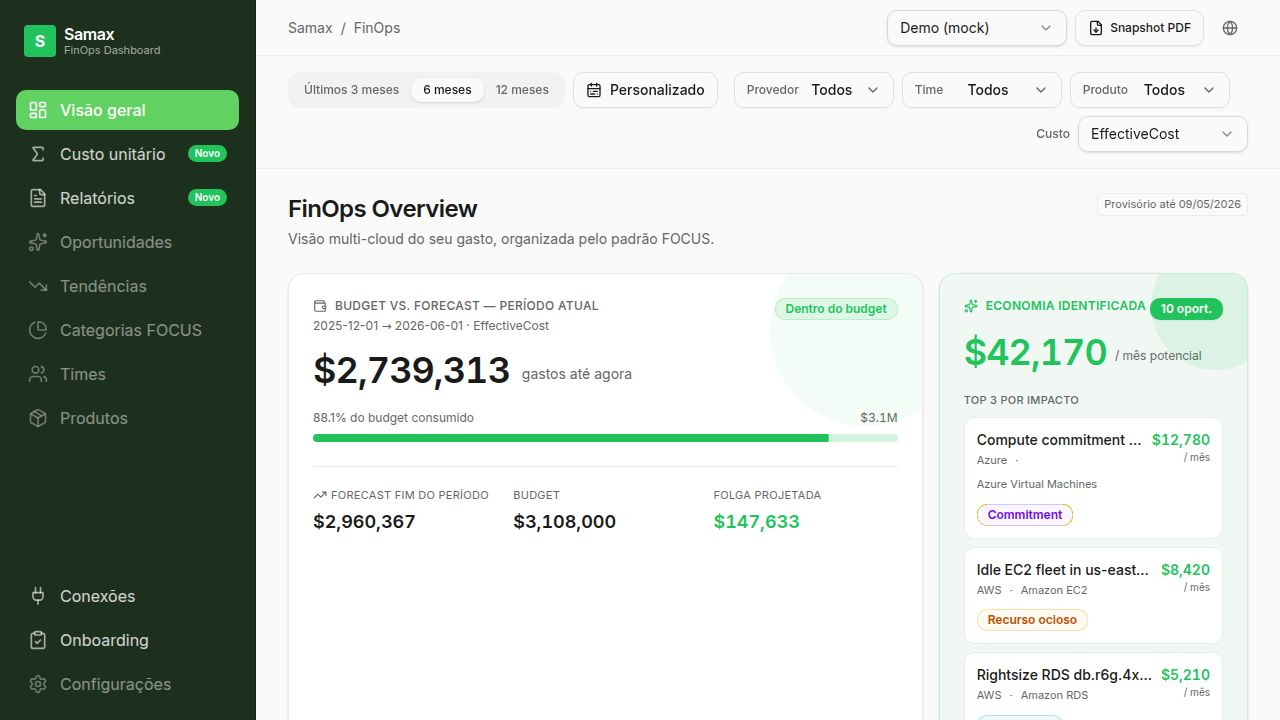
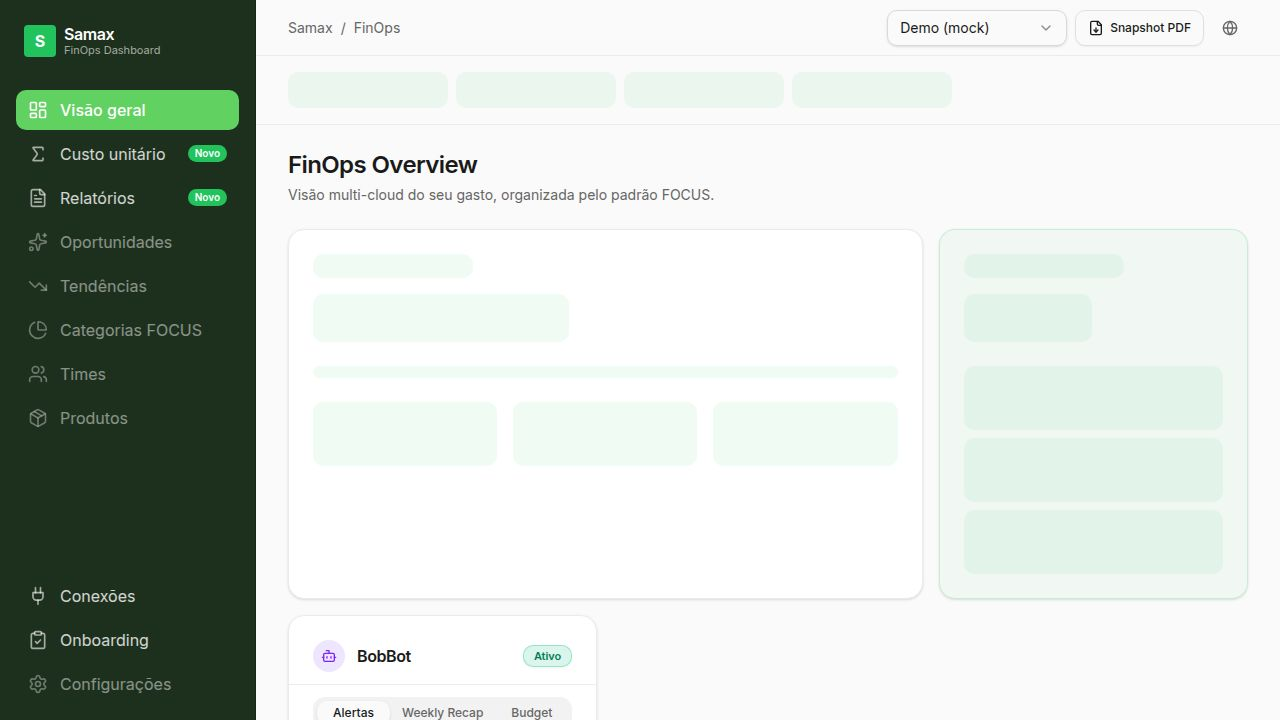
feat: show service/provider breakdown in baseline card details (task #26)
## What changed
- Added `BaselineBreakdownTable` helper component in `relatorios.tsx` that
  renders a sorted table of (name | total cost | % of total) rows from a
  Record<string, number> map (byService or byProvider).
- Converted `BaselineRow` from a static display card to a stateful component
  with an expand/collapse toggle ("Ver detalhes" / "Ocultar").
- Toggle only appears when the baseline has at least one byService or byProvider
  value > 0 (aligned with the table's own row filter to prevent empty panels).
- When expanded, a two-column grid shows "Por serviço" and "Por provedor"
  tables side by side (stacked on mobile), each sorted descending by cost.
- Rows with value ≤ 0 are filtered out; percentage column shows "—" if total
  is zero to avoid division errors.
- Added ChevronDown / ChevronUp icons from lucide-react for the toggle button.

## Code review fix
- `hasBreakdown` now uses `.some((v) => v > 0)` instead of key presence check,
  ensuring the toggle never appears for baselines with only zero-value entries.

## No API or schema changes
The Baseline type already exposes byService and byProvider from the existing
db schema — no backend changes were required.

## Typecheck
`pnpm --filter @user/samax-dashboard run typecheck` passes with zero errors.

## Deviations
None — implemented exactly as described in the task spec.

Replit-Task-Id: 3b98cbb3-e81f-4450-b642-353660befd0b

diff --git a/artifacts/samax-dashboard/src/pages/relatorios.tsx b/artifacts/samax-dashboard/src/pages/relatorios.tsx
@@ -78,6 +78,8 @@ import {
   TrendingDown,
   ClipboardList,
   Layers,
+  ChevronDown,
+  ChevronUp,
 } from "lucide-react";
 import { customFetchUrl } from "@/lib/report-pdf-url";
 import { useUnitEconomics } from "@/lib/unit-economics-store";
@@ -1100,45 +1102,133 @@ function EmptyBaselineBanner({ onCreateClick }: { onCreateClick: () => void }) {
   );
 }
 
+function BaselineBreakdownTable({
+  title,
+  data,
+  currency,
+  total,
+}: {
+  title: string;
+  data: Record<string, number>;
+  currency: string;
+  total: number;
+}) {
+  const rows = Object.entries(data)
+    .filter(([, v]) => v > 0)
+    .sort(([, a], [, b]) => b - a);
+
+  if (rows.length === 0) return null;
+
+  return (
+    <div>
+      <div className="text-xs font-semibold uppercase tracking-wide text-muted-foreground mb-1.5">{title}</div>
+      <Table>
+        <TableHeader>
+          <TableRow>
+            <TableHead className="text-xs">Nome</TableHead>
+            <TableHead className="text-xs text-right">Custo total</TableHead>
+            <TableHead className="text-xs text-right">% do total</TableHead>
+          </TableRow>
+        </TableHeader>
+        <TableBody>
+          {rows.map(([name, value]) => (
+            <TableRow key={name}>
+              <TableCell className="text-sm py-2">{name}</TableCell>
+              <TableCell className="text-sm py-2 text-right tabular-nums">
+                {formatCurrency(value, currency)}
+              </TableCell>
+              <TableCell className="text-sm py-2 text-right tabular-nums text-muted-foreground">
+                {total > 0 ? formatPercent(value / total) : "—"}
+              </TableCell>
+            </TableRow>
+          ))}
+        </TableBody>
+      </Table>
+    </div>
+  );
+}
+
 function BaselineRow({ baseline }: { baseline: Baseline }) {
+  const [expanded, setExpanded] = useState(false);
+
+  const hasBreakdown =
+    Object.values(baseline.byService ?? {}).some((v) => v > 0) ||
+    Object.values(baseline.byProvider ?? {}).some((v) => v > 0);
+
   return (
     <Card>
-      <CardContent className="p-5 flex flex-col md:flex-row gap-4 md:items-center justify-between">
-        <div>
-          <div className="flex items-center gap-2 flex-wrap">
-            <span className="font-medium">{baseline.label}</span>
-            {baseline.isActive && (
-              <Badge variant="outline" className="text-[11px] border-emerald-300 text-emerald-700">
-                Ativo
-              </Badge>
-            )}
-            {baseline.source === "manual-input" ? (
-              <Badge variant="outline" className="text-[11px] border-amber-300 text-amber-700 bg-amber-50">
-                Entrada manual
-              </Badge>
-            ) : (
-              <Badge variant="outline" className="text-[11px]">{baseline.source}</Badge>
-            )}
-          </div>
-          <div className="text-xs text-muted-foreground mt-1">
-            {fmtDate(baseline.periodStart)} → {fmtDate(baseline.periodEnd)} ·
-            {baseline.months} {baseline.months === 1 ? "mês" : "meses"} · criado em {new Date(baseline.createdAt).toLocaleDateString("pt-BR")}
-          </div>
-        </div>
-        <div className="flex items-center gap-6">
-          <div className="text-right">
-            <div className="text-[11px] uppercase tracking-wide text-muted-foreground">Total</div>
-            <div className="text-base font-semibold tabular-nums">
-              {formatCurrency(baseline.totalCost, baseline.currency)}
+      <CardContent className="p-5">
+        <div className="flex flex-col md:flex-row gap-4 md:items-center justify-between">
+          <div>
+            <div className="flex items-center gap-2 flex-wrap">
+              <span className="font-medium">{baseline.label}</span>
+              {baseline.isActive && (
+                <Badge variant="outline" className="text-[11px] border-emerald-300 text-emerald-700">
+                  Ativo
+                </Badge>
+              )}
+              {baseline.source === "manual-input" ? (
+                <Badge variant="outline" className="text-[11px] border-amber-300 text-amber-700 bg-amber-50">
+                  Entrada manual
+                </Badge>
+              ) : (
+                <Badge variant="outline" className="text-[11px]">{baseline.source}</Badge>
+              )}
+            </div>
+            <div className="text-xs text-muted-foreground mt-1">
+              {fmtDate(baseline.periodStart)} → {fmtDate(baseline.periodEnd)} ·
+              {baseline.months} {baseline.months === 1 ? "mês" : "meses"} · criado em {new Date(baseline.createdAt).toLocaleDateString("pt-BR")}
             </div>
           </div>
-          <div className="text-right">
-            <div className="text-[11px] uppercase tracking-wide text-muted-foreground">Média / mês</div>
-            <div className="text-base font-semibold tabular-nums">
-              {formatCurrency(baseline.monthlyAvg, baseline.currency)}
+          <div className="flex items-center gap-4">
+            <div className="flex items-center gap-6">
+              <div className="text-right">
+                <div className="text-[11px] uppercase tracking-wide text-muted-foreground">Total</div>
+                <div className="text-base font-semibold tabular-nums">
+                  {formatCurrency(baseline.totalCost, baseline.currency)}
+                </div>
+              </div>
+              <div className="text-right">
+                <div className="text-[11px] uppercase tracking-wide text-muted-foreground">Média / mês</div>
+                <div className="text-base font-semibold tabular-nums">
+                  {formatCurrency(baseline.monthlyAvg, baseline.currency)}
+                </div>
+              </div>
             </div>
+            {hasBreakdown && (
+              <Button
+                variant="ghost"
+                size="sm"
+                className="text-xs text-muted-foreground gap-1 shrink-0"
+                onClick={() => setExpanded((v) => !v)}
+                data-testid="baseline-toggle-details"
+              >
+                {expanded ? (
+                  <>Ocultar <ChevronUp className="w-3.5 h-3.5" /></>
+                ) : (
+                  <>Ver detalhes <ChevronDown className="w-3.5 h-3.5" /></>
+                )}
+              </Button>
+            )}
           </div>
         </div>
+
+        {expanded && hasBreakdown && (
+          <div className="mt-4 pt-4 border-t grid grid-cols-1 md:grid-cols-2 gap-6">
+            <BaselineBreakdownTable
+              title="Por serviço"
+              data={baseline.byService ?? {}}
+              currency={baseline.currency}
+              total={baseline.totalCost}
+            />
+            <BaselineBreakdownTable
+              title="Por provedor"
+              data={baseline.byProvider ?? {}}
+              currency={baseline.currency}
+              total={baseline.totalCost}
+            />
+          </div>
+        )}
       </CardContent>
     </Card>
   );